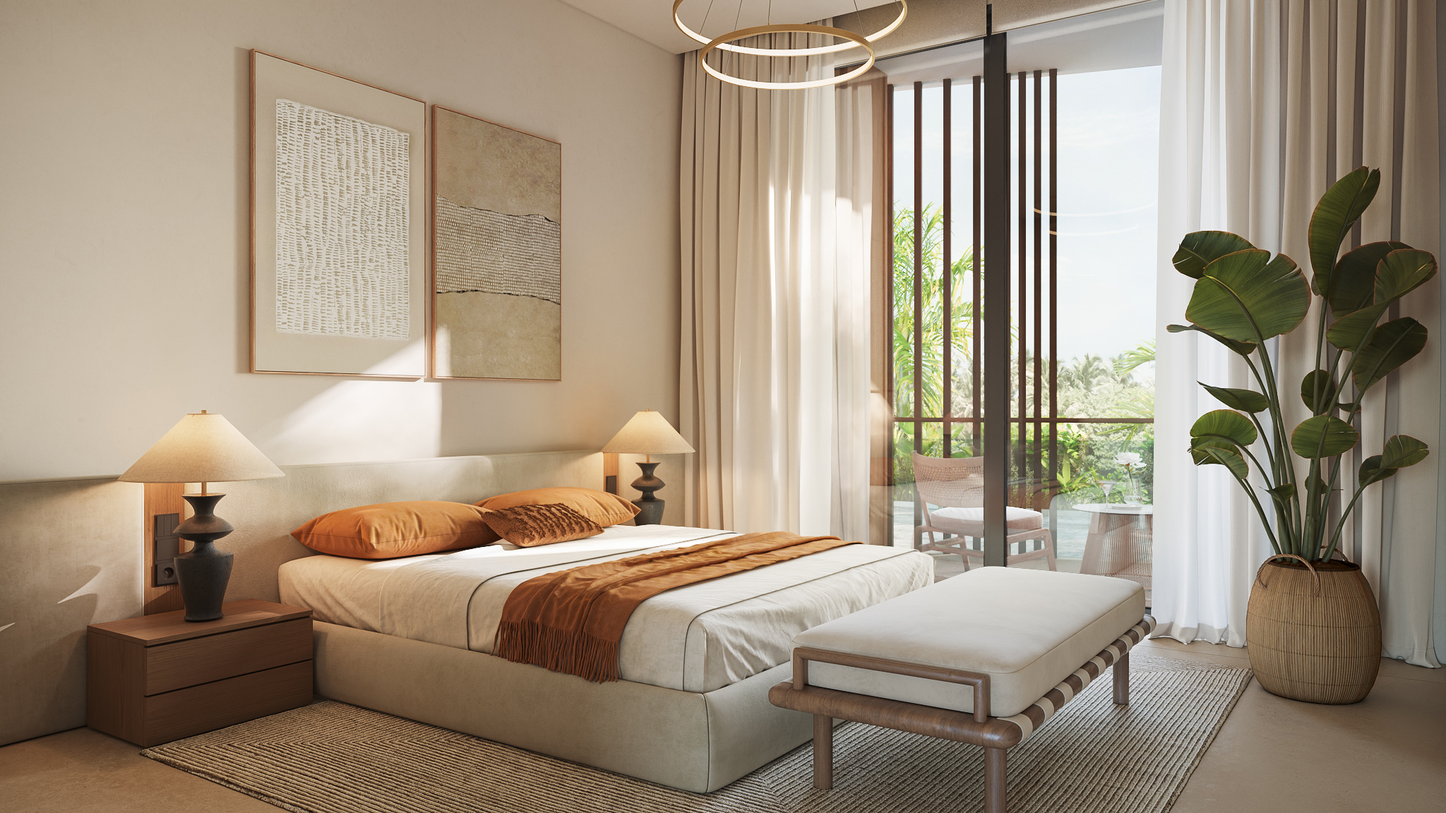
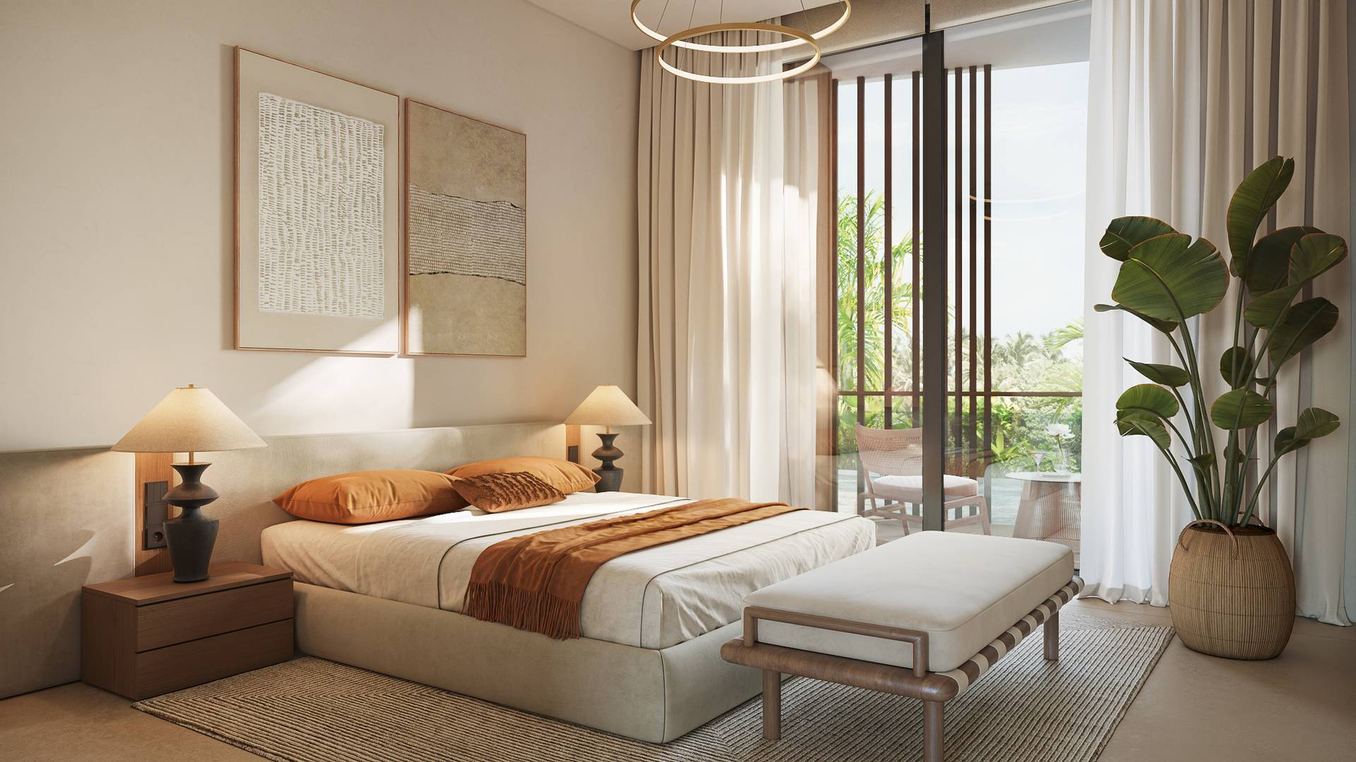
Optimize images for faster loading
Compress all images from ~87MB to ~4.6MB total using sharp.
Images resized to max 1920px width at 70% JPEG quality.
Add background color placeholder for lazy-loaded images.

diff --git a/src/app/globals.css b/src/app/globals.css
@@ -21,6 +21,11 @@ body {
   color: #4e4034;
 }
 
+/* Prevent flash of unstyled content */
+img[loading="lazy"] {
+  background: #f0ebe5;
+}
+
 .font-script {
   font-family: var(--font-platinum), cursive;
 }
